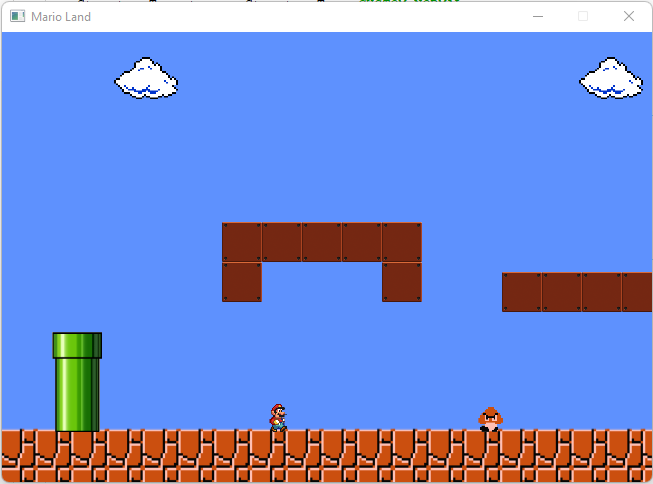
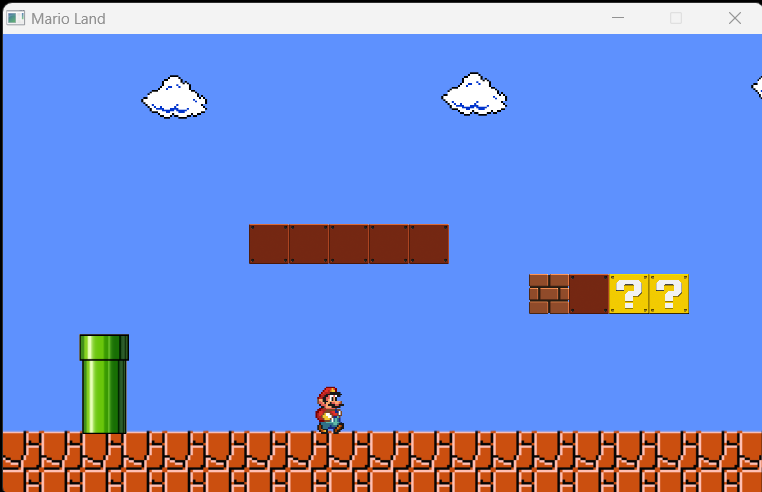
Updated map layout slightly

diff --git a/src/marioclone/MarioClone.java b/src/marioclone/MarioClone.java
@@ -21,14 +21,14 @@ import javafx.stage.Stage;
 import javafx.util.Duration;
 
 /**
- * This code was originally created by Raifuzu Inc. This code is open source for 
+ * This code was originally created by Rayfuzu Inc. This code is open source for 
  * anyone who thinks that they can make it better.
  *
  * @author Courtney Jean Downs 
  */
 public class MarioClone extends Application implements EventHandler<ActionEvent> {
 
-    final int SCENE_WIDTH = 650, SCENE_HEIGHT = 450;
+    final int SCENE_WIDTH = 750, SCENE_HEIGHT = 450;
     Player mario;
     final int SUPER_SPEED = 50;
     final int NORMAL_SPEED = 4;
@@ -36,10 +36,10 @@ public class MarioClone extends Application implements EventHandler<ActionEvent>
 
     ArrayList<Structure> structures;
     ArrayList<Pipe> pipes;
-    final double NORMAL_GROUND_Y_AXIS = 370;
+    final double NORMAL_GROUND_Y_AXIS = 350;
     final double NORMAL_CEILING_Y_AXIS = 50;
     double floor = NORMAL_GROUND_Y_AXIS;
-    double playersYAxis = 370;
+    double playersYAxis = 0;
     double ceiling = 0;
     int animationSpeed = 2;
 
@@ -47,6 +47,21 @@ public class MarioClone extends Application implements EventHandler<ActionEvent>
         launch(args);
     }
 
+    
+    // **************************************************************************************
+    // TODO: Improvements 
+    //      - variable cloud groupings and variable altitudes (not just one every 100ft)
+    //      - pipes that are connected horizzontally to vertical pipes 
+    //      - flag pole 
+    //      - stairs of smaller bricks 
+    //      - more accurage collision detection 
+    // 
+    // **************************************************************************************
+
+    
+    
+    
+    
     @Override
     public void start(Stage primaryStage) {
 
@@ -61,7 +76,7 @@ public class MarioClone extends Application implements EventHandler<ActionEvent>
         //Make the player jump if click on screen
         root.setOnMouseClicked((MouseEvent event) -> {
 
-            final int JUMP_HEIGHT = 150;
+            final int JUMP_HEIGHT = 90;
             //if mario is under the ceiling then let him jump
             if (playersYAxis > ceiling) {
                 playersYAxis -= JUMP_HEIGHT;
@@ -94,18 +109,22 @@ public class MarioClone extends Application implements EventHandler<ActionEvent>
         //The list that all of the objects in the collections below are added to
         ArrayList<GameObject> map = new ArrayList<>();
 
-        ArrayList<GameObject> clouds = createClouds(25, 100, 70);//quantity, width, height 
-        Pipe p1 = createPipe("mario_pipe.png", 50.0, NORMAL_GROUND_Y_AXIS - 70.0, 50, 100);//x,y,width,height
+        ArrayList<GameObject> clouds = createClouds(25);//quantity, width, height 
+        Pipe p1 = createPipe("mario_pipe.png", 50.0, NORMAL_GROUND_Y_AXIS - 50.0, 50, 100);//x,y,width,height
+        Pipe p2 = createPipe("mario_pipe.png", 800.0, NORMAL_GROUND_Y_AXIS - 50.0, 50, 100);//x,y,width,height
         pipes.add(p1);
+        pipes.add(p2);
 
         int vBlocks = 2, hBlocks = 5;
         StructureType type = StructureType.CUSTOM_NORMAL;
         double initX = 220, initY = 150.0;
         ArrayList<Integer> inactiveBlocks = new ArrayList<>();
+        inactiveBlocks.add(5);
         inactiveBlocks.add(6);
         inactiveBlocks.add(7);
         inactiveBlocks.add(8);
-        Structure s1 = createStructure(vBlocks, hBlocks, type, initX, initY, inactiveBlocks);
+        inactiveBlocks.add(9);
+        Structure s1 = createStructure(vBlocks, hBlocks, StructureType.CUSTOM_NORMAL, initX, initY, inactiveBlocks);
 
         vBlocks = 1;
         hBlocks = 4;
@@ -113,22 +132,18 @@ public class MarioClone extends Application implements EventHandler<ActionEvent>
         initY = 200.0;
         inactiveBlocks.clear();
 
-        Structure s2 = createStructure(vBlocks, hBlocks, type, initX, initY, inactiveBlocks);
-        initY -= 45;
-        initX += 300;
-        vBlocks = 5;
-        hBlocks = 5;
-        inactiveBlocks.add(6);
-        inactiveBlocks.add(7);
-        inactiveBlocks.add(8);
-        inactiveBlocks.add(11);
-        inactiveBlocks.add(12);
-        inactiveBlocks.add(13);
-        inactiveBlocks.add(16);
-        inactiveBlocks.add(21);
-        inactiveBlocks.add(22);
-        inactiveBlocks.add(23);
-        inactiveBlocks.add(24);
+        Structure s2 = createStructure(vBlocks, hBlocks, StructureType.REGULAR_INTERACTIVE, initX, initY, inactiveBlocks);
+        initY = 200;
+        initX += 900;
+        vBlocks = 4;
+        hBlocks = 4;
+        inactiveBlocks.add(0);
+        inactiveBlocks.add(1);
+        inactiveBlocks.add(2); 
+        inactiveBlocks.add(4); 
+        inactiveBlocks.add(5); 
+        inactiveBlocks.add(8); 
+        
         Structure s3 = createStructure(vBlocks, hBlocks, type, initX, initY, inactiveBlocks);
         structures.add(s1);
         structures.add(s2);
@@ -141,6 +156,7 @@ public class MarioClone extends Application implements EventHandler<ActionEvent>
         //Adding everything to the map (ArrayList<ImageView>)
         addGameObjectsToMap(map, clouds);
         map.add(p1);
+        map.add(p2);
         addStrucutreToMap(map, s1);
         addStrucutreToMap(map, s2);
         addStrucutreToMap(map, s3);
@@ -155,16 +171,24 @@ public class MarioClone extends Application implements EventHandler<ActionEvent>
         return map;
     }//buildInitialMap()
 
-    private ArrayList<GameObject> createClouds(int quantity, double width, double height) {
+    private ArrayList<GameObject> createClouds(int quantity ) {
+        
+        
+        double width = 103;//(int) (90 + Math.random() * 100);//100;
+        double height = 72;//(int) (60 + Math.random() * 70);//70;
+        
         ArrayList<GameObject> allClouds = new ArrayList<>();
         double layoutX = 100;
+        double previousCloudX = 0;
         for (int i = 0; i < quantity; i++) {
             Image newCloud = new Image("cloud.png");
             GameObject newView = new GameObject(newCloud);
             newView.setLayoutX(layoutX);
             //Calculates space between clouds
-            layoutX = layoutX + (int) (300 + Math.random() * 410);
-            newView.setLayoutY(20);
+            layoutX = previousCloudX + (int) (10 + Math.random() * 410);
+            previousCloudX = layoutX;
+            
+            newView.setLayoutY( (int) (12 + Math.random() * 30) ); // 20
             newView.setFitWidth(width);
             newView.setFitHeight(height);
             allClouds.add(newView);
@@ -179,20 +203,20 @@ public class MarioClone extends Application implements EventHandler<ActionEvent>
         final int TOTAL_BLOCKS = vBlocks * hBlocks;
         Structure newStructure = new Structure();
         //initialize a CUSTOM_NORMAL, and REGULAR_NORMAL  structure 
-        initStructure(TOTAL_BLOCKS, vBlocks, initX, initY, newStructure, inactiveBlocks);
+        initStructure(TOTAL_BLOCKS, vBlocks, initX, initY, newStructure, inactiveBlocks, type);
 
         return newStructure;
     }
 
     private void initStructure(int totalBlocks, int vBlocks, double initLayoutX, double layoutY,
-            ArrayList<GameObject> newGroup, ArrayList<Integer> inactiveBlocks) {
+            ArrayList<GameObject> newGroup, ArrayList<Integer> inactiveBlocks, StructureType type) {
 
         final int BLOCK_WIDTH = 40;
         final int BLOCK_HEIGHT = BLOCK_WIDTH;
         for (int i = 0; i < totalBlocks; i++) {
 
             int hBlocks = totalBlocks / vBlocks;
-            GameObject newBlock = setBlockImage(StructureType.CUSTOM_NORMAL);
+            GameObject newBlock = setBlockImage(type);
             //if newItem is the first entry in the list then set its 
             //layout x to the initial layout x 
             if (i == 0 || i % hBlocks == 0) {
@@ -271,10 +295,9 @@ public class MarioClone extends Application implements EventHandler<ActionEvent>
         return pipe;
     }
 
-    private Player createPlayer() {
-        //TODO -  update paper design so that the player starts off in the middle of the screen
+    private Player createPlayer() { 
         Image player = new Image("mario_character.gif");
-        Player marioPlayer = new Player(player, SCENE_WIDTH / 2.5, playersYAxis, 30, 30, 100);
+        Player marioPlayer = new Player(player, SCENE_WIDTH / 2.5, playersYAxis, 50, 50, 100);
         return marioPlayer;
     }
 
